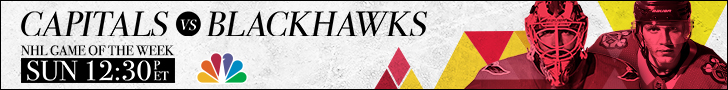
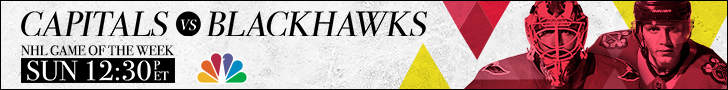
728 an

Changed region(s): [[0.5137, 0.0, 0.7555, 1.0], [0.967, 0.0222, 1.0, 0.5333], [0.8159, 0.0, 0.8764, 0.3556]]

diff --git a/WNH/012019/html_css/728x90/728x90.html b/WNH/012019/html_css/728x90/728x90.html
@@ -1,0 +1,122 @@
+<!DOCTYPE html>
+<html lang="en">
+<head>
+
+    <title>NHL | 300x250</title>
+
+    <link rel="stylesheet" type="text/css" href="style.css">
+
+    <meta name="ad.size" content="width=300, height=250">
+    <script type="text/javascript">var clickTag = "https://www.google.com";</script>
+
+</head>
+<body>
+
+    <div id="banner" onclick="javascript:window.open(window.clickTag);">
+
+      <div id="animation">
+
+        
+        <div id="bg2"></div>
+        <div id="bg3"></div>
+        <div id="bg4"></div>
+        
+        <div id="teams_mask">
+          <div id="teams"></div>
+        </div>
+
+        <div id="gotw_mask">
+          <div id="gotw"></div>
+        </div>
+
+        <div id="time_mask">
+          <div id="time"></div>
+        </div>
+
+
+        <div id="network"></div>
+        <div id="faceoff"></div>
+        <div id="bg1"></div>
+        <div id="lines_right"></div>
+        <div id="lines_left"></div>
+        <div id="lockup"></div>
+        
+      </div>        
+
+    </div>
+
+    <!-- Load TweenMax here -->
+    <script src="https://cdnjs.cloudflare.com/ajax/libs/gsap/1.18.2/TweenMax.min.js"></script>
+    <script src="https://code.jquery.com/jquery-1.12.0.min.js"></script>
+    <script src="https://code.jquery.com/jquery-migrate-1.2.1.min.js"></script>             
+    <script>
+    $(document).ready(function(){
+        var $animation = $("#animation"),
+
+            $bg1 = $("#bg1"),
+            $bg2 = $("#bg2"),
+            // $faceoff = $("#faceoff"),
+            $bg3 = $("#bg3"),
+            $bg4 = $("#bg4"),
+
+
+            $lines_left = $("#lines_left"),
+            $lines_right = $("#lines_right"),
+            $lockup = $("#lockup"),
+            $network = $("#network"),
+            $tag1 = $("#tag1"),
+            $tag2a = $("#tag2a"),
+            $tag2b = $("#tag2b"),
+            $tag3 = $("#tag3"),
+            $teams = $("#teams"),
+            
+            $gotw = $("#gotw"),
+            $gotw_mask = $("#gotw_mask"),
+            $time = $("#time"),
+            $time_mask = $("#time_mask"),
+            tl;
+
+        tl = new TimelineMax({repeat:1, repeatDelay:3});
+
+        tl.add("start")
+          .from($animation, 0.5, {autoAlpha:0}, "+=0.5") 
+
+          .add("frame2", "+=1.0")
+          .to($lockup, 0.25, {opacity:0}, "frame2")
+       
+
+          .add("endframe", "+=.25")
+          // .from($lines_left, 1.25, {opacity:0, left:600, ease: Power2.easeOut}, "endframe")
+          // .from($lines_right, 1.2, {opacity:0, left:-728}, "endframe")
+
+          .from($teams, 0.6, {xPercent:-100, ease: Power2.easeOut}, "teams+=0.2")
+          .from($gotw_mask, 0.6, {width:0, ease: Power2.easeOut}, "teams+=0.7")
+          .from($time_mask, .6, {width:0, ease: Power2.easeOut}, "teams+=0.9")
+
+          .from($network, 0.25, {opacity:0}, "+=0.0")
+
+
+          .to($tag3, 0.25, {opacity:0}, "endframe")
+          .to($bg1, .5, {left:728, ease: Power2.easeOut}, "endframe+=0.25")
+          // .to($bg1, 1, {opacity:0}, "endframe+=0.25")
+          // .from($faceoff, 0.25, {opacity:0}, "endframe+=1.5")
+          // .from($bg4, .5, {opacity:0}, "endframe+=1")
+          .from($bg4, .9, {opacity:0}, "+=.5")
+          to($bg4, .9, {opacity:0}, "+=.5")
+          .to($bg4, .9, {opacity:1}, "+=.5")
+          .to($bg4, .9, {opacity:0}, "+=.5")
+          .to($bg4, .9, {opacity:1}, "+=.5");
+         
+
+
+
+          
+
+
+    });
+    </script>
+    
+
+</body>
+</html>
+

diff --git a/WNH/012019/html_css/728x90/style.css b/WNH/012019/html_css/728x90/style.css
@@ -1,0 +1,169 @@
+@charset "UTF-8";
+/* CSS Document */
+
+body{
+	background-color:#333;
+	margin:0;
+}
+
+#animation{
+	visibility: hidden;
+}
+
+#banner {
+	position: absolute;
+	width: 728px;
+	height: 90px;
+	background-color: #ffffff;
+	padding: 0px;
+	margin: 0px;
+	overflow: hidden;
+	border: 1px solid #000000;
+	box-sizing: border-box;
+}
+
+/* FRAME 1 */
+
+#bg1{
+	position: absolute;
+	left: -30px;
+	top: 0px;
+	width: 776px;
+	height: 90px;
+	background: url(images/bg1.png) no-repeat;
+}
+
+#lockup{
+	position: absolute;
+	left: 0px;
+	top: 0px;
+	width: 728px;
+	height: 90px;
+	background: url(images/lockup.jpg) no-repeat;
+}
+
+
+
+/* ENDFRAME */
+
+#teams_mask {
+		position: absolute;
+		left: 16px;
+		top: 0px;
+		width: 728px;
+		height: 90px;
+		overflow: hidden;
+	}
+
+
+#teams{
+	position: absolute;
+	left: 0px;
+	top: 9px;
+	width: 728px;
+	height: 90px;
+	background: url(images/teams.png) no-repeat;
+}
+
+#gotw_mask {
+		position: absolute;
+		left: 16px;
+		width: 728px;
+		height: 90px;
+		overflow: hidden;
+	}
+
+#gotw{
+	position: absolute;
+	left: 0px;
+	top: 42px;
+	width: 182px;
+	height: 12px;
+	background: url(images/gotw.png) no-repeat;
+}
+
+#time_mask {
+		position: absolute;
+		left: 16px;
+		width: 182px;
+		height: 250px;
+		overflow: hidden;
+	}
+
+#time{
+	position: absolute;
+	left: 0px;
+	top: 56px;
+	width: 172px;
+	height: 34px;
+	background: url(images/time.png) no-repeat;
+}
+
+
+
+#lines_left{
+	position: absolute;
+	left: -728px;
+	top: 0px;
+	width: 300px;
+	height: 250px;
+	background: url(images/lines_left.png) no-repeat;
+}
+
+#lines_right{
+	position: absolute;
+	left: 728px;
+	top: 0px;
+	width: 600px;
+	height: 250px;
+	background: url(images/lines_right.png) no-repeat;
+}
+
+#bg2{
+	position: absolute;
+	left: 0px;
+	top: 0px;
+	width: 300px;
+	height: 250px;
+	background: url(images/bg2.jpg) no-repeat;
+}
+
+
+#faceoff{
+	position: absolute;
+	left: 100px;
+	top: 32px;
+	width: 99px;
+	height: 62px;
+	background: url(images/faceoff.png) no-repeat;
+}
+
+
+#bg3{
+	position: absolute;
+	left: 0px;
+	top: 0px;
+	width: 728px;
+	height: 90px;
+	background: url(images/bg3.jpg) no-repeat;
+}
+
+#bg4{
+	position: absolute;
+	left: 0px;
+	top: 0px;
+	width: 728px;
+	height: 90px;
+	background: url(images/bg4.jpg) no-repeat;
+}
+
+#network{
+	position: absolute;
+	left: 188px;
+	top: 48px;
+	width: 248px;
+	height: 87px;
+	background: url(images/network.png) no-repeat;
+}
+
+
